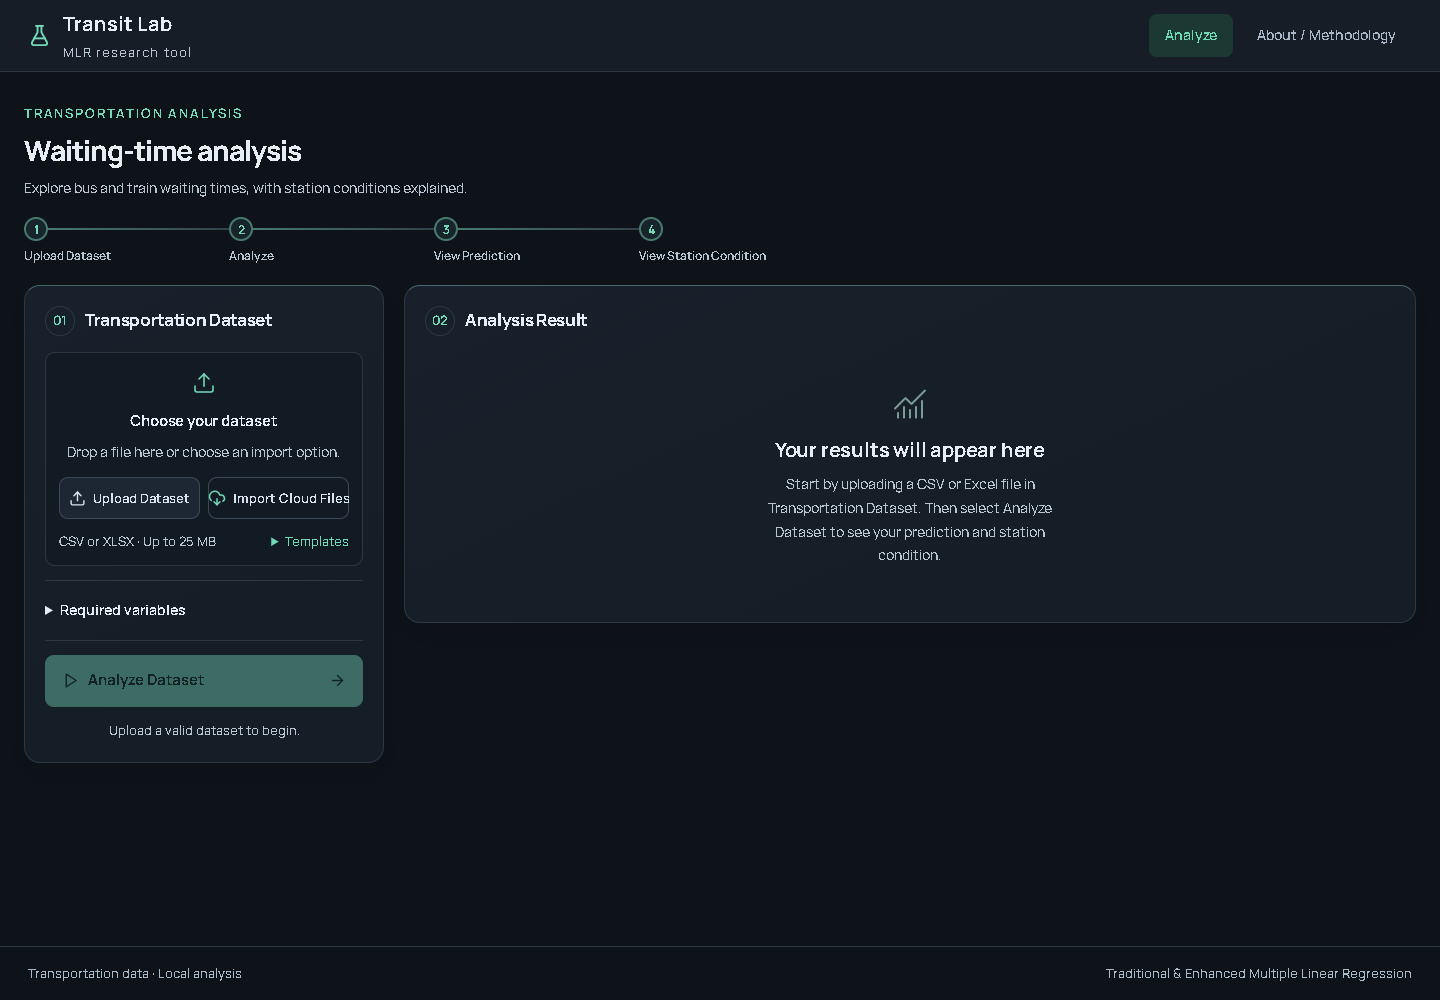
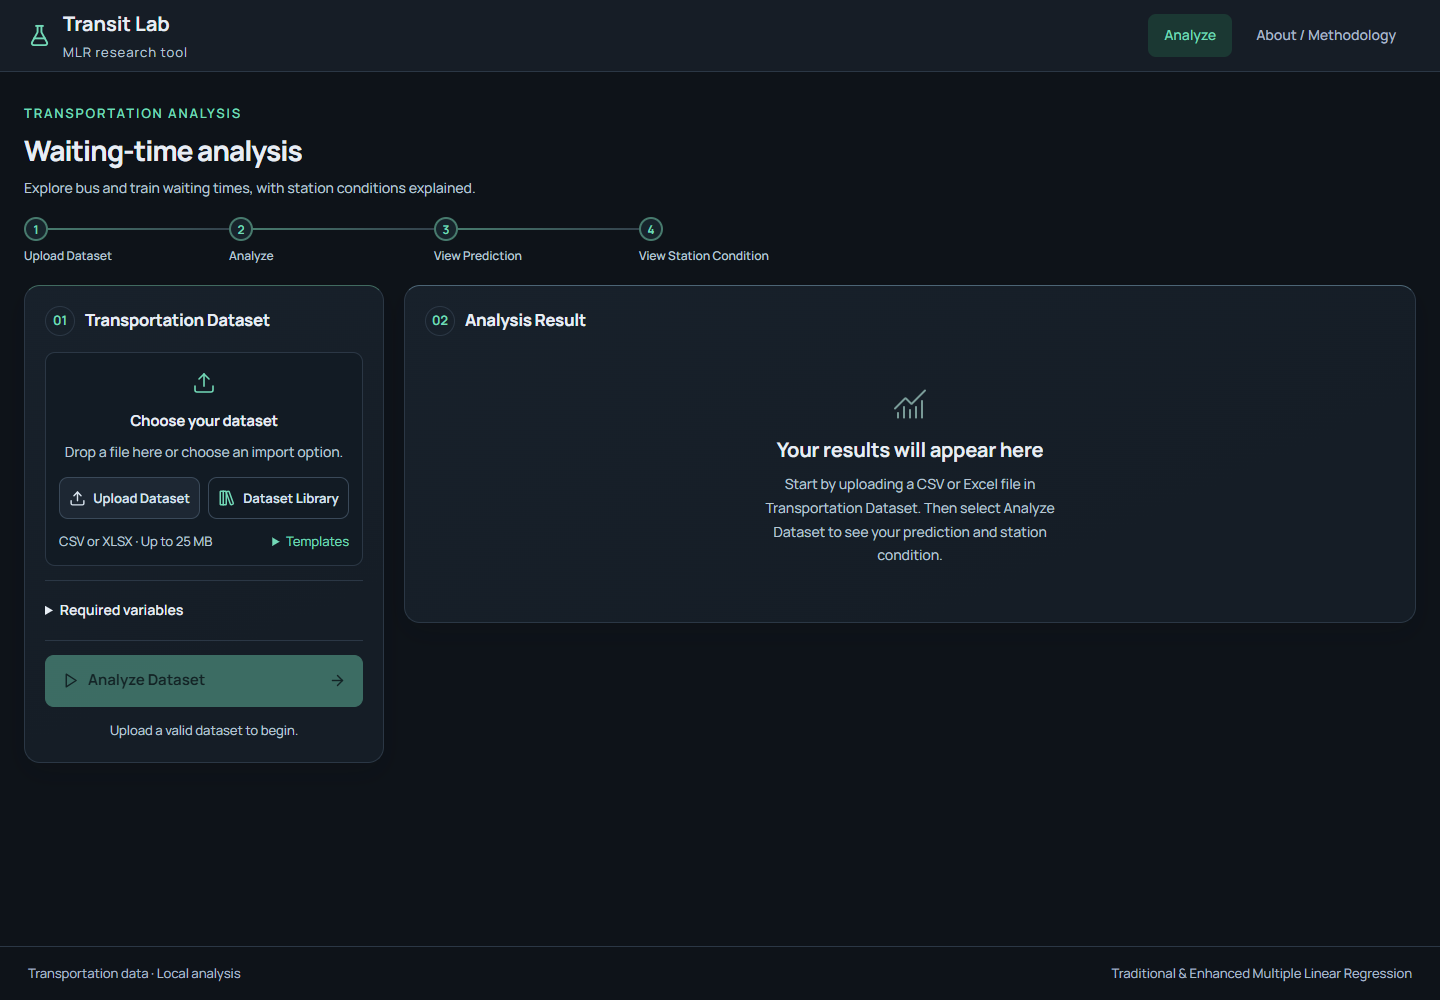
Describe RMSE accurately and rename the bundled dataset picker
The result panel called RMSE an average prediction error; it now states
that the value is in minutes and weights larger errors more heavily.
Import Cloud Files became Dataset Library, and its dialog says the files
are bundled examples rather than a cloud storage connection.

diff --git a/frontend/src/components/CloudImport.tsx b/frontend/src/components/CloudImport.tsx
@@ -1,4 +1,4 @@
-import { ArrowRight, BusFront, CloudDownload, Database, FileSpreadsheet, LoaderCircle, Search, TrainFront } from 'lucide-react'
+import { ArrowRight, BusFront, Database, FileSpreadsheet, LibraryBig, LoaderCircle, Search, TrainFront } from 'lucide-react'
 import { useState } from 'react'
 import type { Workspace } from '../hooks/useExperiment'
 import { datasetLibrary } from '../services/datasetLibrary'
@@ -24,9 +24,9 @@ export function CloudImport({w, imported}: {w: Workspace; imported: () => void})
     finally {setLoadingId(null)}
   }
   return <>
-    <button className="button cloud-import-trigger" disabled={w.busy} onClick={() => {setError(''); setQuery(''); setOpen(true)}}><CloudDownload size={18}/>Import Cloud Files</button>
-    {open && <Modal title="Cloud: Transportation Datasets" className="cloud-import-modal dataset-library-modal" close={() => setOpen(false)} canClose={!busy}>
-      <div className="library-navigation"><p>Click a dataset to import it directly into Transit Lab.</p></div>
+    <button className="button cloud-import-trigger" disabled={w.busy} onClick={() => {setError(''); setQuery(''); setOpen(true)}}><LibraryBig size={18}/>Dataset Library</button>
+    {open && <Modal title="Dataset library on this server" className="cloud-import-modal dataset-library-modal" close={() => setOpen(false)} canClose={!busy}>
+      <div className="library-navigation"><p>Example datasets bundled with Transit Lab. Select one to import it directly; this is not a connection to your cloud storage account. Use Upload Dataset for your own files.</p></div>
         <div className="library-search-area">
           <label className="library-search"><Search size={18} aria-hidden="true"/><input aria-label="Search library datasets" type="search" placeholder="Search by name or transport mode…" value={query} disabled={busy} onChange={e => {setQuery(e.target.value); setError('')}}/></label>
           <p className="library-disclosure">No download or re-upload needed. Files must pass the required-column checks.</p>

diff --git a/frontend/src/components/AnalysisResults.tsx b/frontend/src/components/AnalysisResults.tsx
@@ -32,7 +32,7 @@ export function AnalysisResults({s}: {s: Experiment}) {
   const enhanced = s.metrics.find(m => m.Model === 'Enhanced MLR')
   const condition = typeof row?.['Multi-Factor Station Score'] === 'number' ? String(row['Overall Station Classification']) : 'Requires Researcher Decision'
   const missing = String(row?.['Missing Classification Definitions'] || '').split(';').map(text => text.trim()).filter(Boolean).map(text =>
-    text.includes('Vehicle Frequency unit') ? 'Vehicle Frequency: the measurement unit needs to be defined.' : text
+    / unit: /.test(text) ? `${text.split(' unit:')[0]}: the measurement unit needs to be defined.` : text
       .replace(': Insufficient Variation for Classification', ': the training data does not vary enough to support a condition.')
       .replace(': Requires Researcher Decision', ': a scoring rule is still unavailable.'))
 
@@ -55,7 +55,7 @@ export function AnalysisResults({s}: {s: Experiment}) {
       <section className="accuracy-summary">
         <div className="result-label"><Gauge size={18} aria-hidden="true"/><h3 title={columnHelp.RMSE}>Enhanced MLR RMSE</h3></div>
         <p><strong>{minutes(enhanced?.RMSE)}</strong> <span>min</span></p>
-        <small className="accuracy-scope">Average prediction error across the held-out test observations.</small>
+        <small className="accuracy-scope">Typical size of this model's prediction errors, in minutes. Larger errors count more heavily, so this is not a plain average.</small>
         <small className="accuracy-scope">Across all {s.test} test observations</small>
       </section>
     </div>

diff --git a/frontend/src/services/presentation.ts b/frontend/src/services/presentation.ts
@@ -17,7 +17,7 @@ export const columnHelp: Record<string, string> = {
   'Prediction Error': predictionErrorHelp,
   'Baseline Error (actual - predicted)': predictionErrorHelp,
   'Enhanced Error (actual - predicted)': predictionErrorHelp,
-  'RMSE': 'Overall prediction error across the test dataset. Lower is better.',
+  'RMSE': 'Square root of the mean squared error, in minutes. It weights larger errors more heavily than a plain average error. Lower is better.',
   'Multi-Factor Station Score': 'Combined operational severity score from the six transportation predictors and the Enhanced MLR predicted waiting time.',
   'Overall Station Classification': 'Station condition based on Traffic Condition, Weather Condition, Passenger Volume, Route Distance, Vehicle Frequency, Time of Day, and Enhanced MLR Predicted Waiting Time.',
 }
